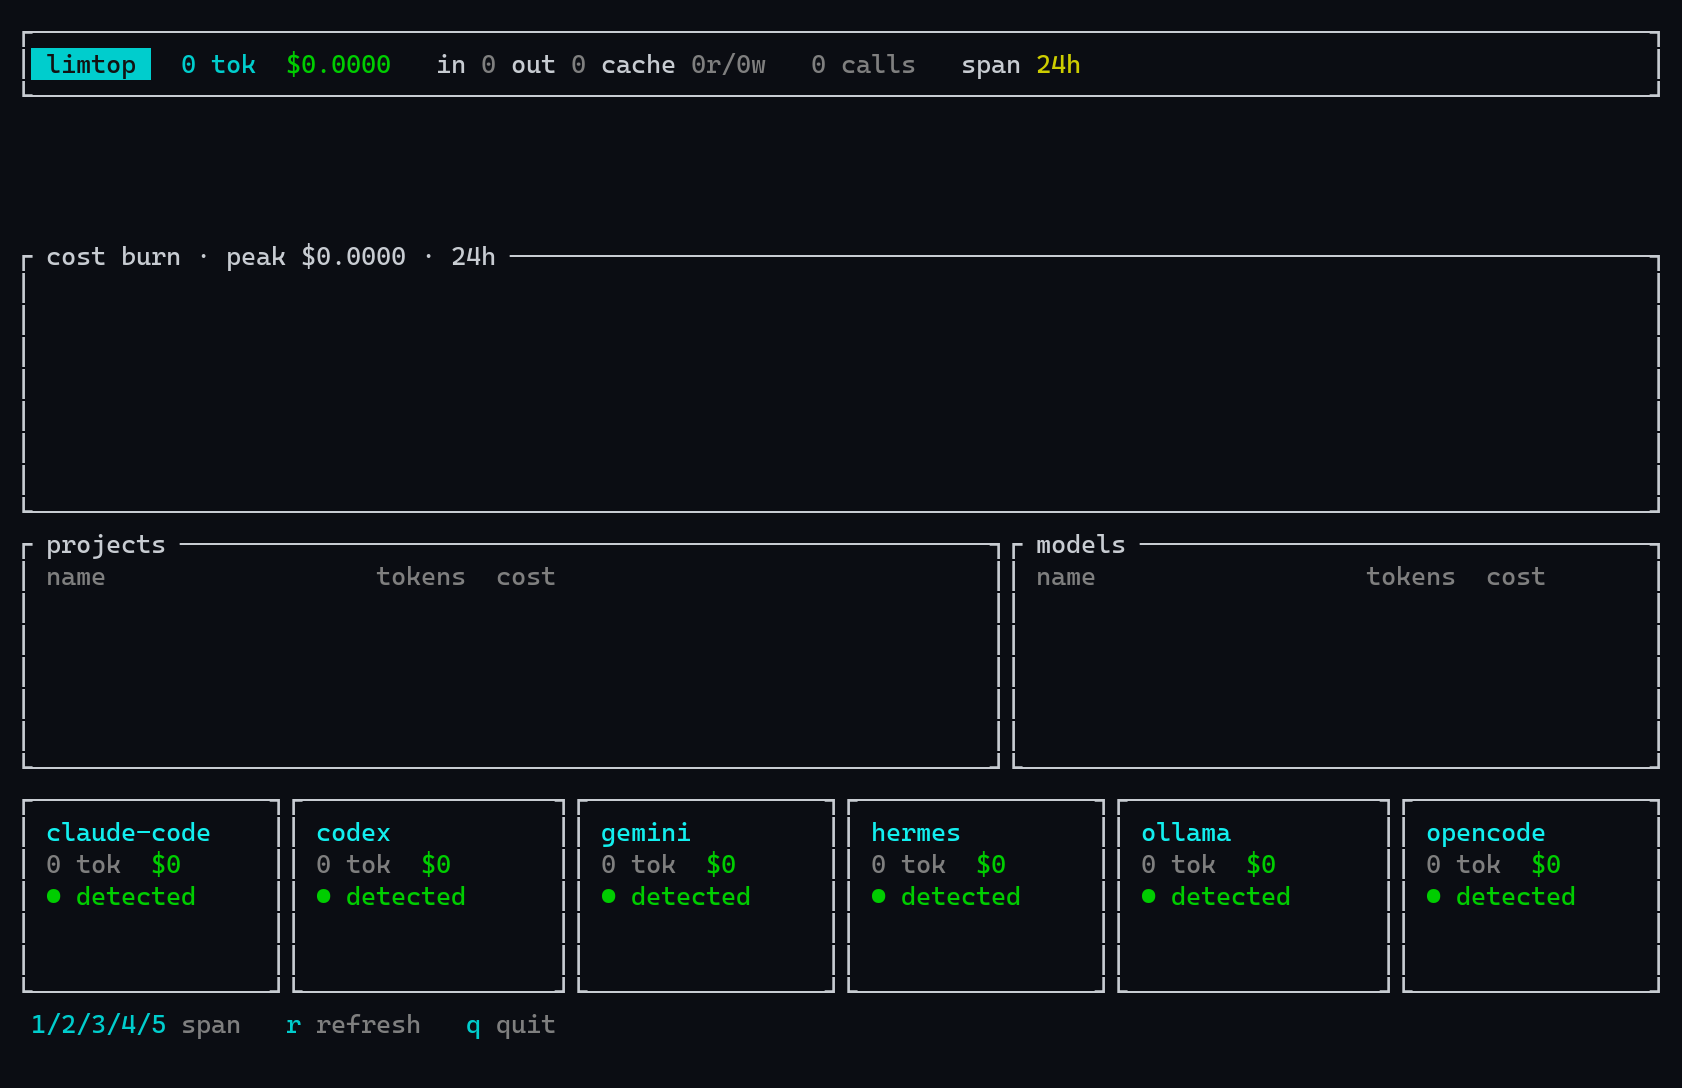
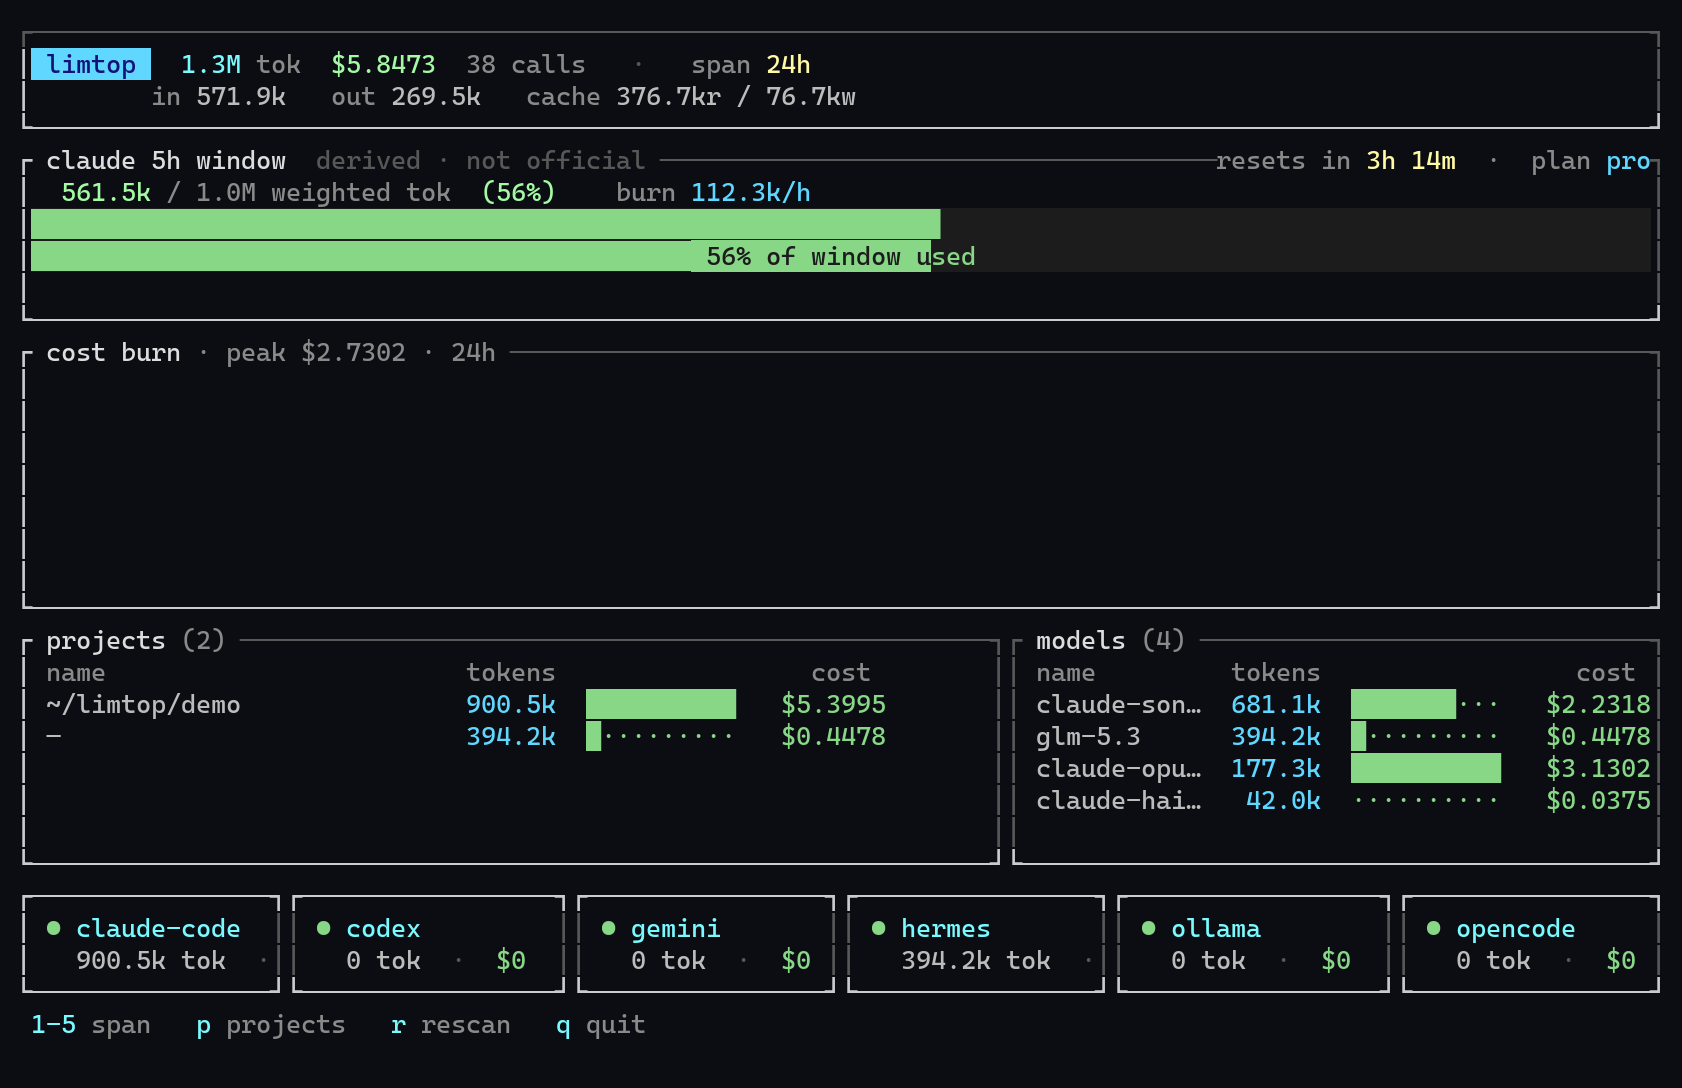
assets: refresh screenshots — real data post claude-provider fix, 56% hero gauge
Previous hero was captured while the claude provider silently emitted zero
events (unreachable-code bug, fixed in 999fa95) and leaned on a demo
fixture with a since-deleted project path. Recaptured all views with a
tuned fixture (26 events trailing 2h): gauge 56%, resets in 3h14m, burn
112.3k/h. ?v=4 cache-bust.

diff --git a/README.md b/README.md
@@ -4,7 +4,7 @@
 [![CI](https://github.com/cthulhutoo/limtop/actions/workflows/ci.yml/badge.svg)](https://github.com/cthulhutoo/limtop/actions/workflows/ci.yml)
 [![License: MIT](https://img.shields.io/badge/license-MIT-blue.svg)](LICENSE)
 
-![limtop dashboard](assets/rate-hero.png?v=3)
+![limtop dashboard](assets/rate-hero.png?v=4)
 
 **btop for AI usage.** A single Rust binary that reads the CLI coding agents
 you already use — Claude Code, opencode, Hermes — and shows tokens, cost,
@@ -24,8 +24,8 @@ see everything.
 
 | | |
 |---|---|
-| ![dashboard](assets/rate-hero.png?v=3) | ![projects](assets/projects-list.png?v=3) |
-| ![project detail](assets/project-detail.png?v=3) | ![rate window](assets/rate-window.png?v=3) |
+| ![dashboard](assets/rate-hero.png?v=4) | ![projects](assets/projects-list.png?v=4) |
+| ![project detail](assets/project-detail.png?v=4) | ![rate window](assets/rate-window.png?v=4) |
 
 ## Install
 
